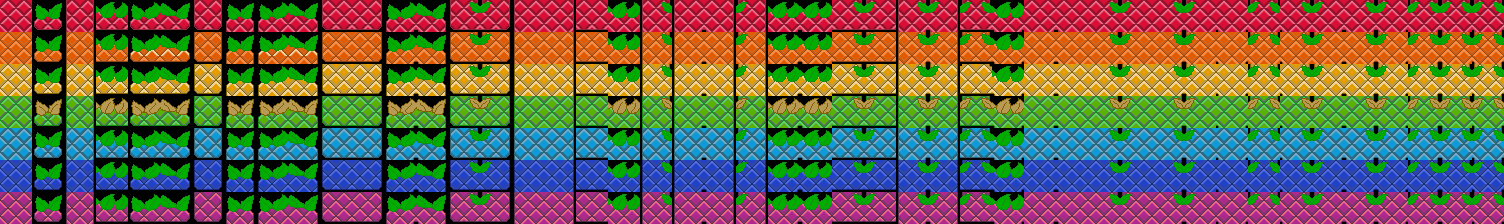
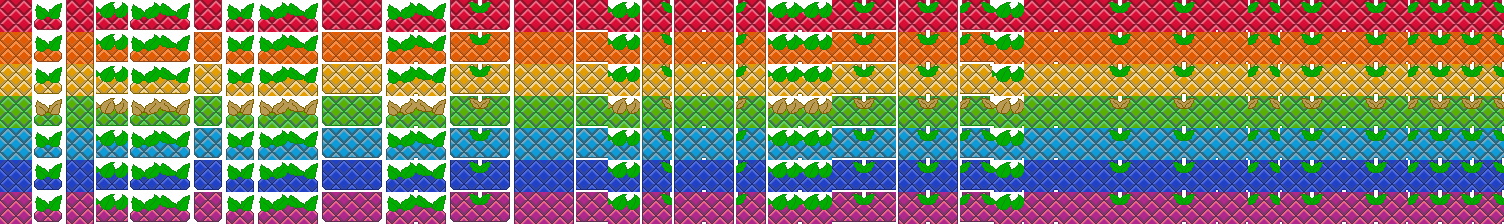
ghosts & background

diff --git a/Gui/src/main/java/dev/menga/metris/RenderableGame.java b/Gui/src/main/java/dev/menga/metris/RenderableGame.java
@@ -49,13 +49,14 @@ public class RenderableGame extends Game {
     }
 
     public void render(Batch batch) {
-        // Render field.
+        // Render background
+        batch.draw(this.resources.getBackground(), this.gridOff.getX(), this.gridOff.getY());
+
+        // Render previously placed tiles
         for (int y = 0; y < Field.MAX_VISIBLE_HEIGHT; ++y) {
             for (int x = 0; x < Field.MAX_WIDTH; ++x) {
                 Color color = this.field.getColors()[y][x];
-                batch.draw(this.resources.getUnit(), this.gridOff.getX() + (FIELD_RENDER_UNIT * x), this.gridOff.getY() + (FIELD_RENDER_UNIT * y));
                 if (color.isVisible()) {
-
                     int[] inp = new int[8];
                     for (int i = 0; i < 8; i++) {
                         inp[i] = 0;
@@ -95,17 +96,17 @@ public class RenderableGame extends Game {
 
                     int index = TEXTURE_LOOKUP[result];
 
-//                    Metris.getLogger().info("{} {} {}", inp, result, index);
+                    // Metris.getLogger().info("{} {} {}", inp, result, index);
 
                     batch.draw(this.resources.getTile(color, index), this.gridOff.getX() + (FIELD_RENDER_UNIT * x), this.gridOff.getY() + (FIELD_RENDER_UNIT * y));
                 }
             }
         }
 
-        // Render current tetromino.
-        this.renderTetromino(batch, this.getCurrentTetromino(), this.pixelPos(this.getPosition()));
         // Render ghost of current tetromino.
         this.renderTetromino(batch, this.getCurrentTetromino(), this.pixelPos(this.getHardDropPosition()), true);
+        // Render current tetromino.
+        this.renderTetromino(batch, this.getCurrentTetromino(), this.pixelPos(this.getPosition()));
 
         // Render upcoming tetrominos.
         Tetromino[] preview = this.getNextTetrominos(NEXT_TETROMINOS);
@@ -133,37 +134,35 @@ public class RenderableGame extends Game {
 
     public void renderTetromino(Batch batch, Tetromino toRender, Vec2i position, boolean ghost) {
         TextureRegion texture;
-        if (ghost) {
-            texture = this.resources.getGhostColor(toRender.getColor());
-            for (Vec2i tile : toRender.getShape().getTiles()) {
-                batch.draw(texture, position.getX() + (FIELD_RENDER_UNIT * tile.getX()), position.getY() + (FIELD_RENDER_UNIT * tile.getY()));
+        Shape s = toRender.getShape();
+        Vec2i[] cords = s.getTiles();
+        for (Vec2i tile : toRender.getShape().getTiles()) {
+            int[] inp = new int[8];
+            for (int i = 0; i < 8; i++) {
+                inp[i] = 0;
             }
-        } else {
-            Shape s = toRender.getShape();
-            Vec2i[] cords = s.getTiles();
-            for (Vec2i tile : toRender.getShape().getTiles()) {
-                int[] inp = new int[8];
-                for (int i = 0; i < 8; i++) {
-                    inp[i] = 0;
-                }
-                for (int i = 0; i < 4; i ++) {
-                    if(cords[i].getX() == tile.getX()-1 && cords[i].getY() == tile.getY()+1) inp[0] = 1;
-                    if(cords[i].getX() == tile.getX() && cords[i].getY() == tile.getY()+1) inp[1] = 1;
-                    if(cords[i].getX() == tile.getX()+1 && cords[i].getY() == tile.getY()+1) inp[2] = 1;
-                    if(cords[i].getX() == tile.getX()+1 && cords[i].getY() == tile.getY()) inp[3] = 1;
-                    if(cords[i].getX() == tile.getX()+1 && cords[i].getY() == tile.getY()-1) inp[4] = 1;
-                    if(cords[i].getX() == tile.getX() && cords[i].getY() == tile.getY()-1) inp[5] = 1;
-                    if(cords[i].getX() == tile.getX()-1 && cords[i].getY() == tile.getY()-1) inp[6] = 1;
-                    if(cords[i].getX() == tile.getX()-1 && cords[i].getY() == tile.getY()) inp[7] = 1;
-                }
-                int result = 0;
-                for (int i = 0; i < 8; i++) {
-                    result = (result << 1) | inp[i];
-                }
-                int index = TEXTURE_LOOKUP[result];
+            for (int i = 0; i < 4; i ++) {
+                if(cords[i].getX() == tile.getX()-1 && cords[i].getY() == tile.getY()+1) inp[0] = 1;
+                if(cords[i].getX() == tile.getX() && cords[i].getY() == tile.getY()+1) inp[1] = 1;
+                if(cords[i].getX() == tile.getX()+1 && cords[i].getY() == tile.getY()+1) inp[2] = 1;
+                if(cords[i].getX() == tile.getX()+1 && cords[i].getY() == tile.getY()) inp[3] = 1;
+                if(cords[i].getX() == tile.getX()+1 && cords[i].getY() == tile.getY()-1) inp[4] = 1;
+                if(cords[i].getX() == tile.getX() && cords[i].getY() == tile.getY()-1) inp[5] = 1;
+                if(cords[i].getX() == tile.getX()-1 && cords[i].getY() == tile.getY()-1) inp[6] = 1;
+                if(cords[i].getX() == tile.getX()-1 && cords[i].getY() == tile.getY()) inp[7] = 1;
+            }
+            int result = 0;
+            for (int i = 0; i < 8; i++) {
+                result = (result << 1) | inp[i];
+            }
+            int index = TEXTURE_LOOKUP[result];
+            if(ghost) {
+                texture = this.resources.getGhost(toRender.getColor(), index);
+            }
+            else {
                 texture = this.resources.getTile(toRender.getColor(), index);
-                batch.draw(texture, position.getX() + (FIELD_RENDER_UNIT * tile.getX()), position.getY() + (FIELD_RENDER_UNIT * tile.getY()));
             }
+            batch.draw(texture, position.getX() + (FIELD_RENDER_UNIT * tile.getX()), position.getY() + (FIELD_RENDER_UNIT * tile.getY()));
         }
     }
 

diff --git a/Gui/src/main/java/dev/menga/metris/Resources.java b/Gui/src/main/java/dev/menga/metris/Resources.java
@@ -13,37 +13,41 @@ import lombok.Getter;
 public class Resources implements Disposable {
 
     private final AssetManager assetManager = new AssetManager();
-    private final TextureAtlas atlas;
     private final TextureAtlas tileAtlas;
+    private final TextureAtlas ghostAtlas;
+    private final TextureAtlas backgroundAtlas;
 
     @Getter
-    final private TextureRegion unit;
-    final private TextureRegion[] colorTextures;
-    final private TextureRegion[] ghostColorTextures;
     final private TextureRegion[][] tileTextures;
+    final private TextureRegion[][] ghostTextures;
+    final private TextureRegion backgroundTexture;
+
     Resources() {
         this.assetManager.load("textures.atlas", TextureAtlas.class);
         this.assetManager.load("tiles.atlas", TextureAtlas.class);
-
+        this.assetManager.load("ghosts.atlas", TextureAtlas.class);
+        this.assetManager.load("background.atlas", TextureAtlas.class);
         this.assetManager.finishLoading();
-        this.atlas = assetManager.get("textures.atlas", TextureAtlas.class);
-        this.tileAtlas = assetManager.get("tiles.atlas", TextureAtlas.class);
-        this.colorTextures = this.atlas.findRegion("colors").split(32, 32)[0];
-        this.tileTextures = this.tileAtlas.findRegion("everything").split(32, 32);
-        this.ghostColorTextures = this.atlas.findRegion("colors").split(32, 32)[1];
-        this.unit = this.atlas.findRegion("unit");
-    }
 
-    public TextureRegion getTexture(String texture) {
-        return atlas.findRegion(texture);
+        this.tileAtlas = assetManager.get("tiles.atlas", TextureAtlas.class);
+        this.ghostAtlas = assetManager.get("ghosts.atlas", TextureAtlas.class);
+        this.backgroundAtlas = assetManager.get("background.atlas", TextureAtlas.class);
+
+        this.tileTextures = this.tileAtlas.findRegion("everything").split(32, 32);
+        this.ghostTextures = this.ghostAtlas.findRegion("everything").split(32, 32);
+        this.backgroundTexture = this.backgroundAtlas.findRegion("everything").split(320, 640)[0][0];
     }
 
     public TextureRegion getTile(Color color, int index) {
         return this.tileTextures[color.getId()-2][index];
     }
 
-    public TextureRegion getGhostColor(Color color) {
-        return this.ghostColorTextures[color.getId()];
+    public TextureRegion getGhost(Color color, int index) {
+        return this.ghostTextures[color.getId()-2][index];
+    }
+
+    public TextureRegion getBackground() {
+        return this.backgroundTexture;
     }
 
     public BitmapFont getDefaultFont() {
@@ -53,6 +57,8 @@ public class Resources implements Disposable {
     @Override
     public void dispose() {
         this.assetManager.dispose();
-        this.atlas.dispose();
+        this.tileAtlas.dispose();
+        this.ghostAtlas.dispose();
+        this.backgroundAtlas.dispose();
     }
 }
